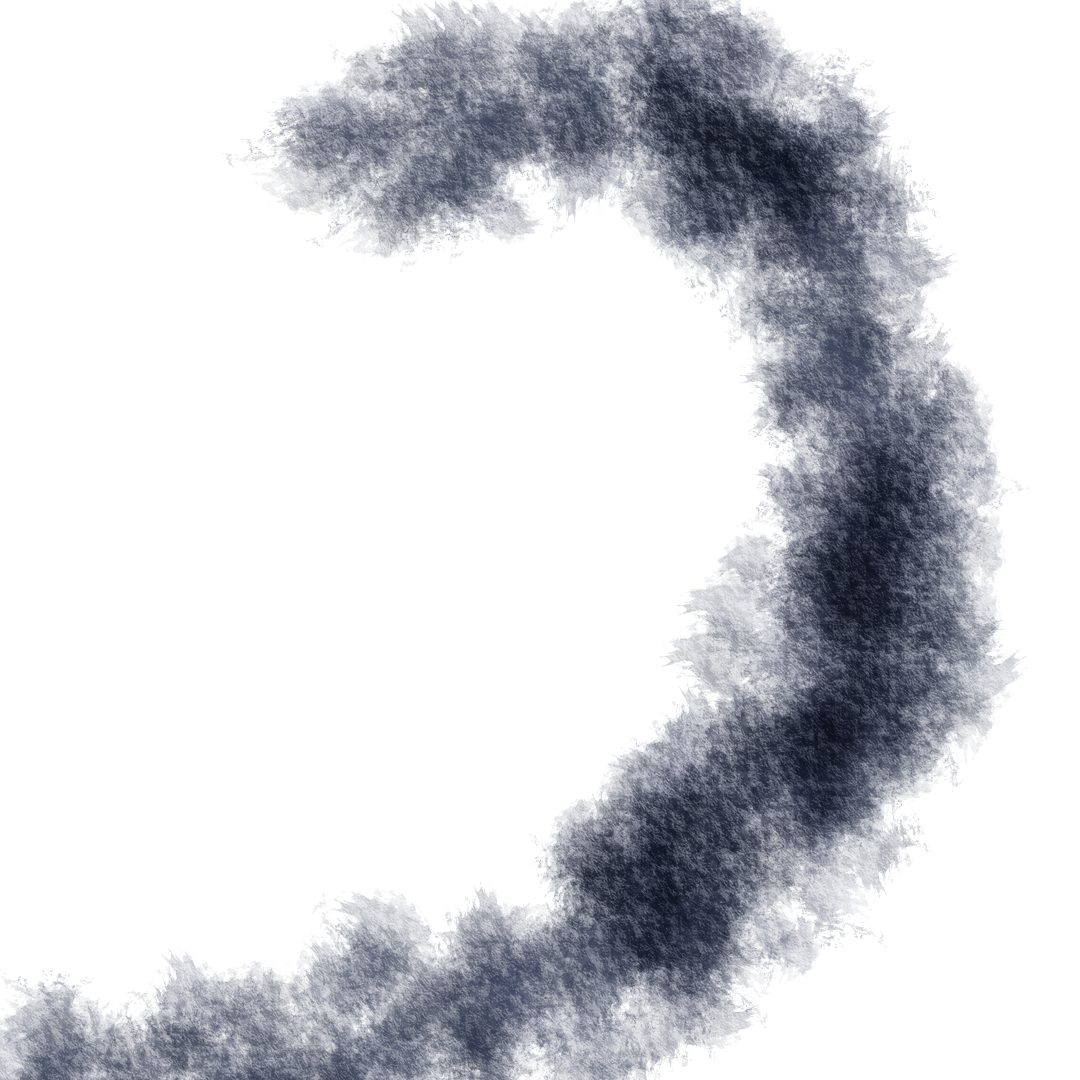
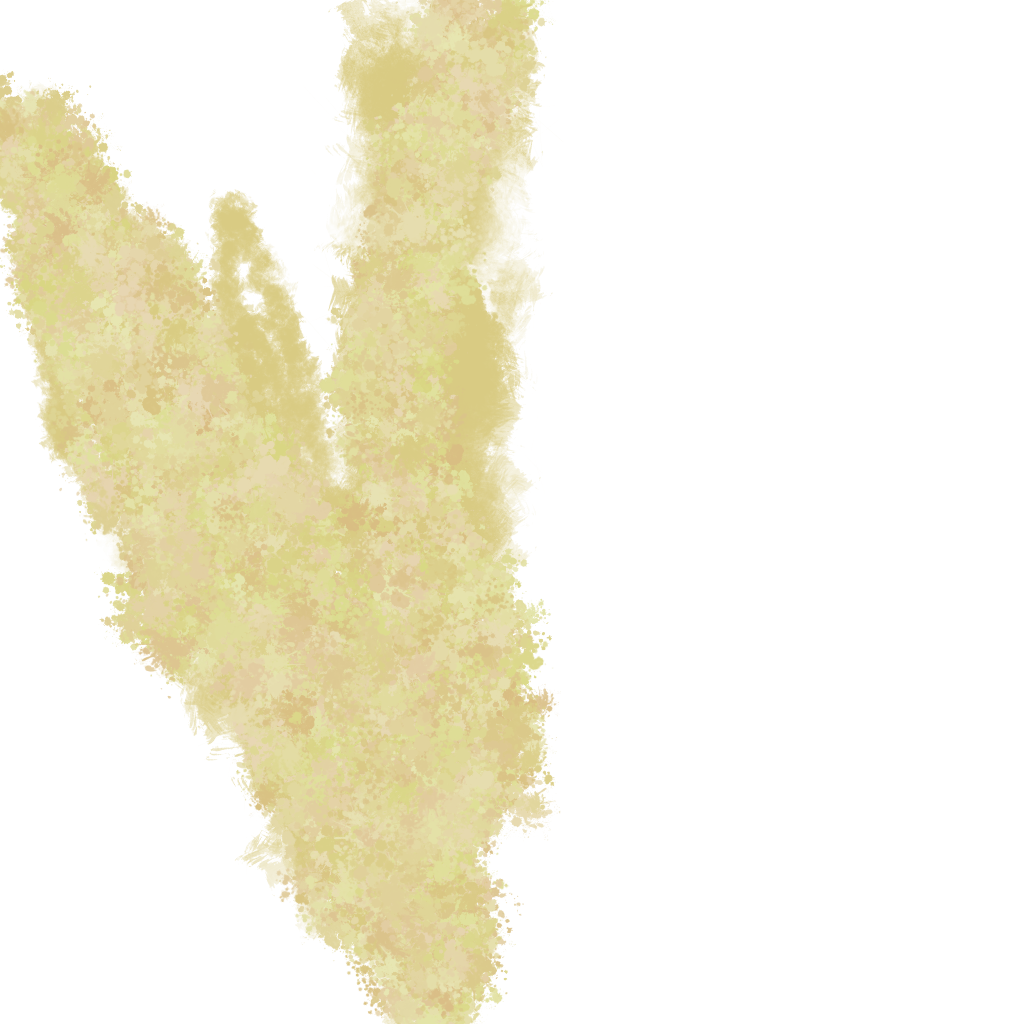
攻撃時のエフェクトの実装

diff --git a/DirectXGame/Player.cpp b/DirectXGame/Player.cpp
@@ -55,6 +55,7 @@ void Player::Initialize(Model* model, Model* modelAttack, Camera* camera, const 
 	worldTransformAttack_.Initialize();
 	worldTransformAttack_.translation_ = position;
 	worldTransformAttack_.rotation_.y = std::numbers::pi_v<float> / 2.0f;
+	worldTransformAttack_.scale_ = { 0.0f, 0.0f, 0.0f }; // 最初は非表示
 }
 
 void Player::Update() {
@@ -100,8 +101,9 @@ void Player::Update() {
 void Player::Draw() {
 	// 3Dモデルを描画
 	model_->Draw(worldTransform_, *camera_);
-	
+
 	if (attackPhase_ == AttackPhase::Rush) {
+		// 攻撃エフェクトモデルを描画
 		modelAttack_->Draw(worldTransformAttack_, *camera_);
 	}
 }
@@ -421,15 +423,28 @@ void Player::BehaviorAttackUpdate() {
 
 	// 判定結果を反映して移動させる
 	ApplyCollisionResult(collisionMapInfo);
- 
-	// トランスフォームの値をコピー
-	worldTransformAttack_.translation_ = worldTransform_.translation_;
-	
+
 	// 向きに応じて攻撃モデルの向きを変える
-	worldTransformAttack_.rotation_.y = worldTransform_.rotation_.y;
+	worldTransformAttack_.rotation_ = worldTransform_.rotation_;
+
+	// エフェクト位置の調整
+	Vector3 offset = attackDirection_ * kEffectOffsetLength; // 攻撃方向にオフセット
+
+	// トランスフォームに反映
+	worldTransformAttack_.translation_ = worldTransform_.translation_ + offset;
+
+	// エフェクトのスケールはフェーズに応じて制御
+	if (attackPhase_ == AttackPhase::Rush) {
+		// 突進フェーズではフルスケール
+		worldTransformAttack_.scale_ = { 1.0f, 1.0f, 1.0f };
+	} else {
+		// それ以外のフェーズでは非表示
+		worldTransformAttack_.scale_ = { 0.0f, 0.0f, 0.0f };
+	}
+
+	UpdateWorldTransform(worldTransformAttack_);
 
 	UpdateWorldTransform(worldTransform_);
-	UpdateWorldTransform(worldTransformAttack_);
 }
 
 void Player::BehaviorDodgeUpdate() {

diff --git a/DirectXGame/TitleScene.cpp b/DirectXGame/TitleScene.cpp
@@ -77,6 +77,12 @@ void TitleScene::Update() {
 	// 天球の更新
 	skydome_->Update();
 
+	// スペースキーを押したらフェードアウトを開始する
+	if (Input::GetInstance()->PushKey(DIK_SPACE)) {
+		fade_->Start(Fade::Status::FadeOut, kFadeTime); // フェードアウト開始
+		phase_ = Phase::kFadeOut;
+	}
+
 	switch (phase_) {
 	case Phase::kFadeIn: // フェードインフェーズ
 		fade_->Update();
@@ -88,20 +94,6 @@ void TitleScene::Update() {
 		break;
 
 	case Phase::kMain: // メインフェーズ
-		// メイン部ではスペースキーを押したらフェードアウトを開始する
-		if (Input::GetInstance()->PushKey(DIK_SPACE)) {
-			fade_->Start(Fade::Status::FadeOut, kFadeTime); // フェードアウト開始
-			phase_ = Phase::kFadeOut;
-		}
-
-		// タイトルアニメーションなど、メインの更新処理
-		counter_ += returnT_ * (1.0f / 60.0f);
-		if (counter_ >= kDuration || counter_ <= 0.0f) {
-			returnT_ *= -1.0f;
-		}
-		t = counter_ / kDuration;
-		worldTransformTitle_.translation_.y = std::clamp((1.0f - t), 0.0f, 1.0f) + kOriginePos;
-
 		break;
 
 	case Phase::kFadeOut: // フェードアウトフェーズ
@@ -112,6 +104,13 @@ void TitleScene::Update() {
 		}
 		break;
 	}
+	// タイトルアニメーションなどの更新処理
+	counter_ += returnT_ * (1.0f / 60.0f);
+	if (counter_ >= kDuration || counter_ <= 0.0f) {
+		returnT_ *= -1.0f;
+	}
+	t = counter_ / kDuration;
+	worldTransformTitle_.translation_.y = std::clamp((1.0f - t), 0.0f, 1.0f) + kOriginePos;
 
 	UpdateWorldTransform(worldTransform_);
 	UpdateWorldTransform(worldTransformTitle_);

diff --git a/DirectXGame/GameClearScene.cpp b/DirectXGame/GameClearScene.cpp
@@ -59,6 +59,12 @@ void GameClearScene::Update() {
 	// 天球の更新
 	skydome_->Update();
 
+	// スペースキーを押すとフェードアウトを開始する
+	if (Input::GetInstance()->PushKey(DIK_SPACE)) {
+		fade_->Start(Fade::Status::FadeOut, kFadeTime);
+		phase_ = Phase::kFadeOut;
+	}
+
 	switch (phase_) {
 	case Phase::kFadeIn:
 		fade_->Update();
@@ -69,19 +75,6 @@ void GameClearScene::Update() {
 		break;
 
 	case Phase::kMain:
-		// スペースキーを押すとフェードアウトを開始する
-		if (Input::GetInstance()->PushKey(DIK_SPACE)) {
-			fade_->Start(Fade::Status::FadeOut, kFadeTime);
-			phase_ = Phase::kFadeOut;
-		}
-
-		// タイトルと同じく、Clearの文字をアニメーションさせる
-		counter_ += returnT_ * (1.0f / 60.0f);
-		if (counter_ >= kDuration || counter_ <= 0.0f) {
-			returnT_ *= -1.0f;
-		}
-		t = counter_ / kDuration;
-		worldTransformClear_.translation_.y = std::clamp((1.0f - t), 0.0f, 1.0f) + kOriginePos;
 
 		break;
 
@@ -92,6 +85,14 @@ void GameClearScene::Update() {
 		}
 		break;
 	}
+
+	// タイトルと同じく、Clearの文字をアニメーションさせる
+	counter_ += returnT_ * (1.0f / 60.0f);
+	if (counter_ >= kDuration || counter_ <= 0.0f) {
+		returnT_ *= -1.0f;
+	}
+	t = counter_ / kDuration;
+	worldTransformClear_.translation_.y = std::clamp((1.0f - t), 0.0f, 1.0f) + kOriginePos;
 
 	UpdateWorldTransform(worldTransformClear_);
 	camera_.UpdateMatrix();

diff --git a/DirectXGame/Player.h b/DirectXGame/Player.h
@@ -131,13 +131,16 @@ private:
 	static inline const float kRushTime = 0.02f;
 	static inline const float kAftertasteTime = 0.4f;
 
+	// 攻撃エフェクト
+	static inline const float kEffectOffsetLength = 2.0f; // 攻撃エフェクトのオフセット
+
 	// デスフラグ
 	bool isDead_ = false;
 
 	// 回避ギミックの経過時間カウンター
 	float dodgeParameter_ = 0.0f;
 	// 回避時間<秒>
-	static inline const float kDodgeMainTime = 0.2f;       // 回避行動の継続時間
+	static inline const float kDodgeMainTime = 0.15f;       // 回避行動の継続時間
 	static inline const float kDodgeAftertasteTime = 0.1f; // スケールを戻す時間
 	// 回避速度
 	static inline const float kDodgeSpeed = 0.5f; // 回避行動の速度
